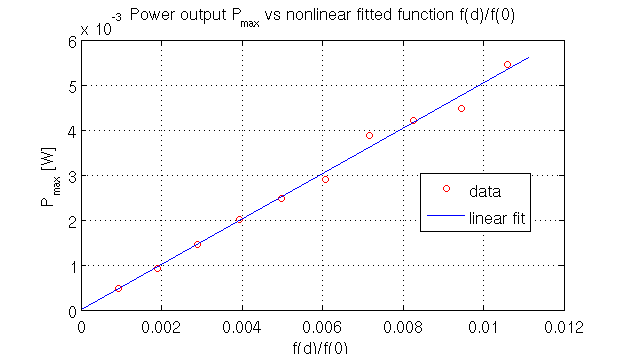
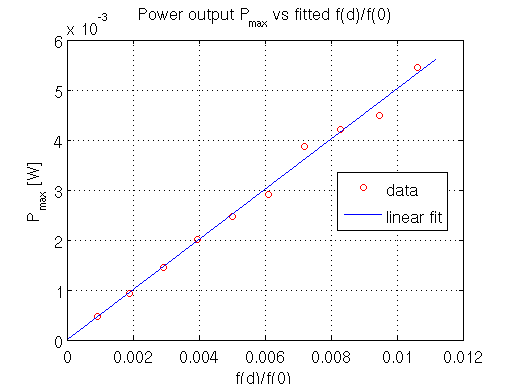
change title of plot Pmax vs f(d)/f(0)

diff --git a/Measurements/plotPmaxVSfdf0.m b/Measurements/plotPmaxVSfdf0.m
@@ -28,5 +28,5 @@ plot([0 max(fdf0)*1.05], [0 max(fdf0)*1.05*slope], 'b')
 grid on
 xlabel('f(d)/f(0)')
 ylabel('P_{max} [W]')
-title('Power output P_{max} vs nonlinear fitted function f(d)/f(0)')
+title('Power output P_{max} vs fitted f(d)/f(0)')
 legend('data','linear fit')
